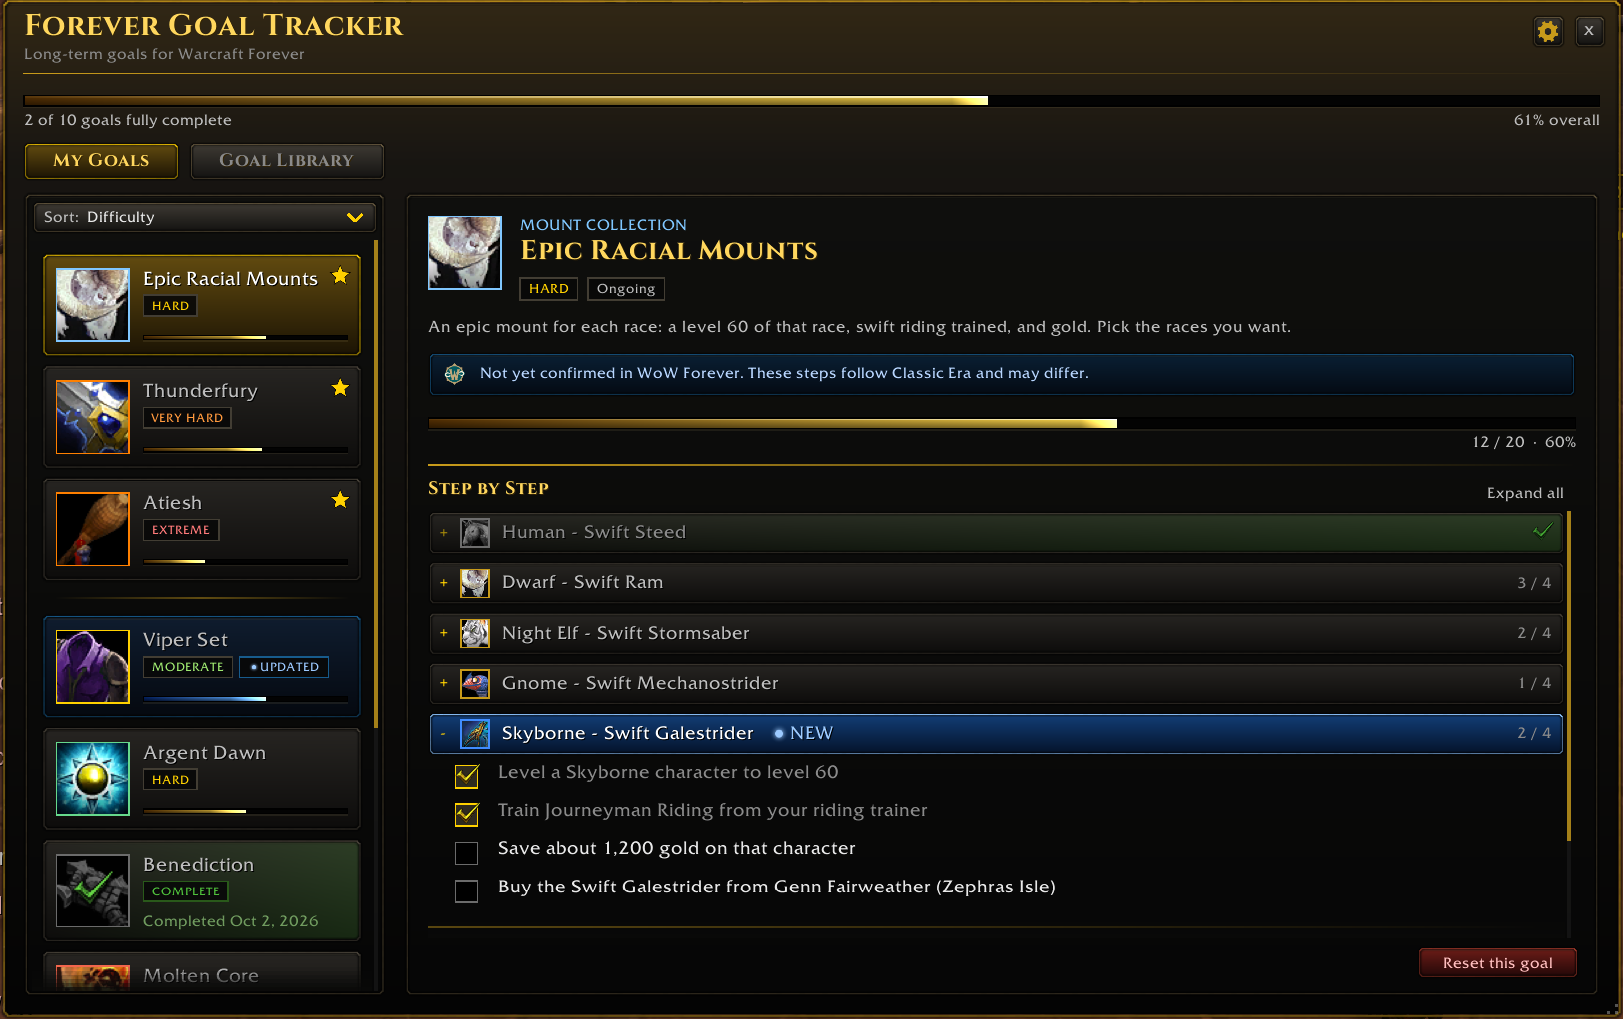
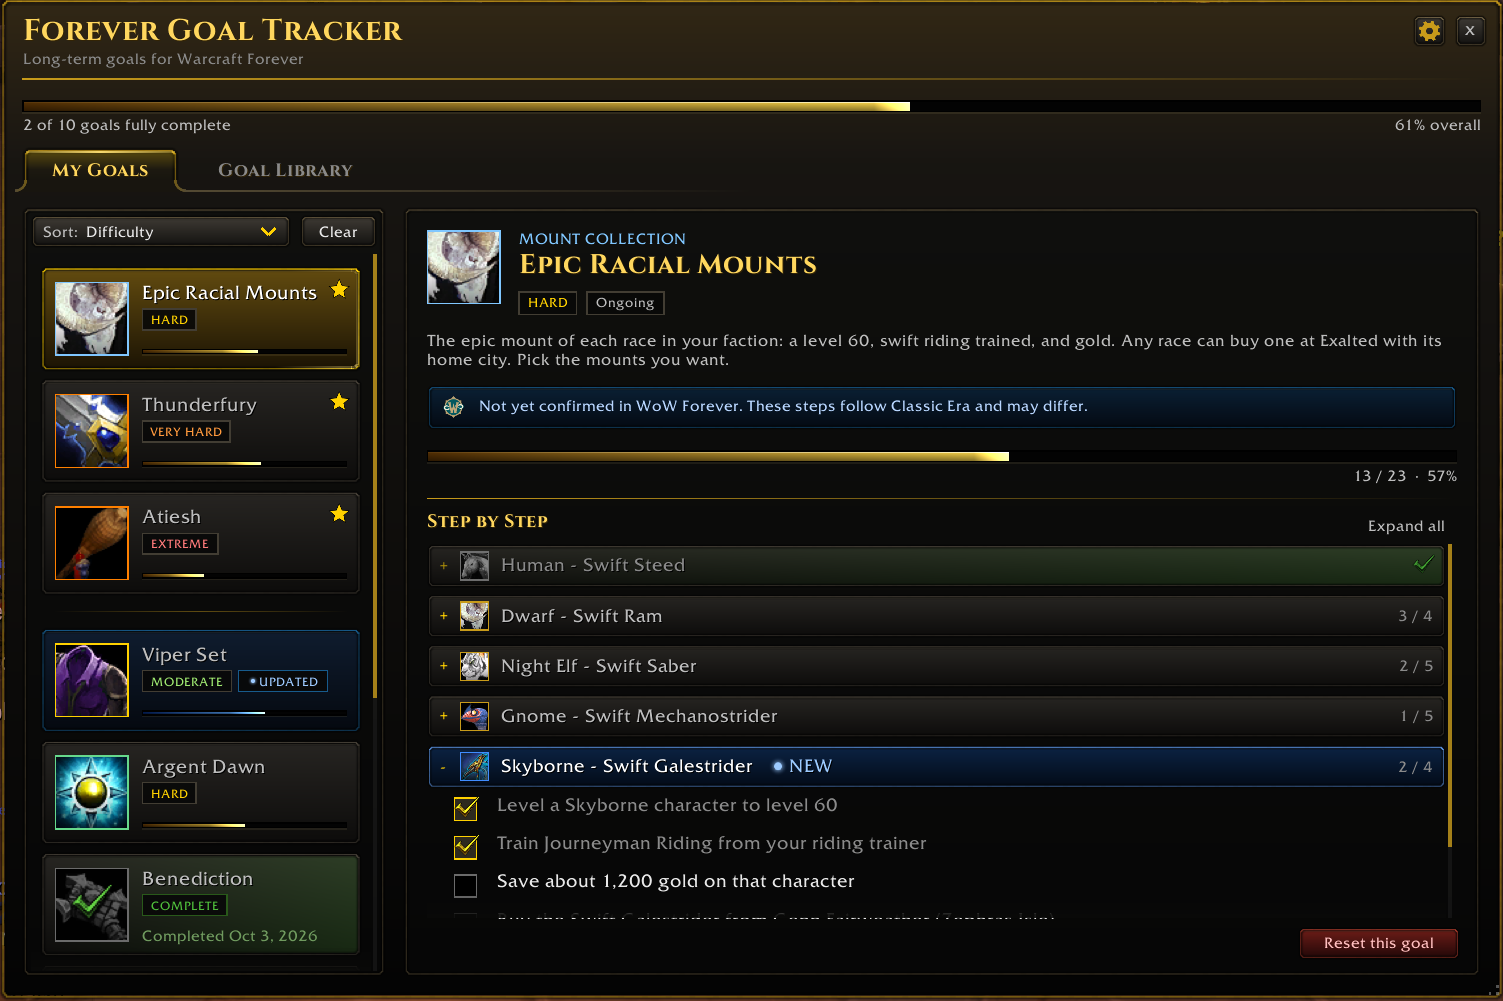
Screenshots retaken for 2.6.0 (shots 1-4, new wizard shots 6 and 7); gallery notes

Changed region(s): [[0.0, 0.0, 1.0, 1.0], [0.9488, 0.0, 1.0, 0.0619]]

diff --git a/CLAUDE.md b/CLAUDE.md
@@ -152,11 +152,11 @@ The CurseForge gallery has five screenshots, also kept in `Screenshots/` in the 
 | `03-epic-mounts.png` | `/goals demo 3` | Group headers (finished, counts), Expand all, open Skyborne part | group rows, Expand all, Epic Racial Mounts data or wording |
 | `04-links-and-tips.png` | `/goals demo 4` | Corrupted Ashbringer: gold links, link card, Tips, Forever notice | goal links, link card, tips, Ashbringer steps |
 | `05-settings.png` | `/goals settings` (any scene behind it) | Settings page: both columns, pill toggles, choices, sliders, tracked characters | any settings row or group, the toggle look, the gear; its header shows the version, so retake after each version bump |
-| `06-welcome.png` (planned) | `/goals demo 5` | Welcome wizard: the five hand-drawn interest tiles, two picked, over the greyed empty tracker | the wizard's interest step, tile art or motion |
-| `07-suggestions.png` (planned) | `/goals demo 6` | Wizard suggestions for the logged-in character (raiding and epic loot) | suggestion rows, wizard copy, suggestion rules |
+| `06-welcome.png` | `/goals demo 5` | Welcome wizard: the five hand-drawn interest tiles, two picked, over the greyed empty tracker | the wizard's interest step, tile art or motion |
+| `07-suggestions.png` | `/goals demo 6` | Wizard suggestions for the logged-in character (raiding and epic loot) | suggestion rows, wizard copy, suggestion rules |
 | `08-whats-new.png` (planned) | `/goals demo 7` | Social goals, a changed gold target, the SAVED UNTIL chip on Molten Core, Find your next goal at the end of the list | those features, goal cards |
 
-Shot 3 is knowingly stale since the 2026-10-06 racial mount step change (Karl: not worth a retake before launch). Retake every shot when Warcraft Forever launches (live client instead of beta). When adding a shot, add a demo scene to `FGT.Demo` (`SCENES` in Core.lua) and a row here.
+Gallery as of 2026-10-07 (v2.6.0, all retaken that day by Karl, old images deleted): shots 1, 2, 3, 4, 6, 7 in that order, titled My Goals / New & Updated in WoW Forever / Pick the parts you want / Goal links and tips / What interests you? / Goals picked for you, with descriptions; shot 1 featured. Shot 5 (Settings) is NOT in the gallery right now (old file kept in `Screenshots/`, stale: new screenshot row and version). Shot 8 (demo 7) not taken yet. Retake every shot when Warcraft Forever launches (live client instead of beta). When adding a shot, add a demo scene to `FGT.Demo` (`SCENES` in Core.lua) and a row here.
 
 ## Looking things up on Wowhead
 
